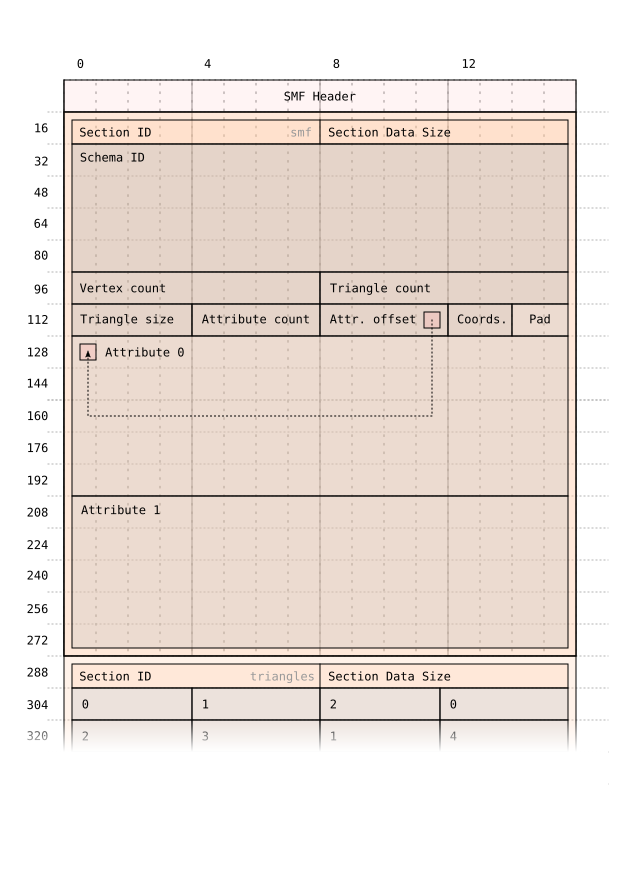
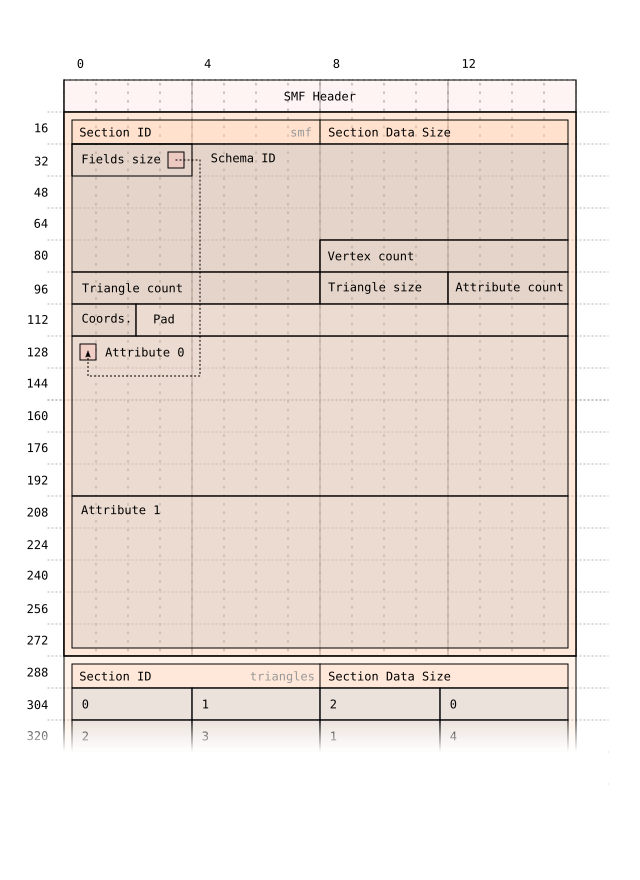
Use an explicit header size rather than an attribute offset
The total size of the header fields (minus the attributes) are declared
up front at the start of the header. This will prevent future additions
to the header from having to introduce their own "attribute_offset"
field variations.

This also rearranges the padding so that all header fields are
strictly aligned according to their type, and the header field total
is a multiple of 16.

Fix #49

diff --git a/com.io7m.smfj.tests/src/test/java/com/io7m/smfj/tests/format/binary/v1/SMFBv1SectionParserHeaderTest.java b/com.io7m.smfj.tests/src/test/java/com/io7m/smfj/tests/format/binary/v1/SMFBv1SectionParserHeaderTest.java
@@ -90,6 +90,36 @@ public final class SMFBv1SectionParserHeaderTest
   }
 
   @Test
+  public void testSizesAlignment()
+  {
+    Assert.assertTrue(
+      "Fields size is 4 octet aligned",
+      SMFBv1_0HeaderByteBuffered.metaFieldsSizeStaticOffsetFromType() % 4 == 0);
+    Assert.assertTrue(
+      "Schema is 4 octet aligned",
+      SMFBv1_0HeaderByteBuffered.metaSchemaStaticOffsetFromType() % 4 == 0);
+    Assert.assertTrue(
+      "Vertex count is 8 octet aligned",
+      SMFBv1_0HeaderByteBuffered.metaVertexCountStaticOffsetFromType() % 8 == 0);
+    Assert.assertTrue(
+      "Triangle count is 8 octet aligned",
+      SMFBv1_0HeaderByteBuffered.metaTriangleCountStaticOffsetFromType() % 8 == 0);
+    Assert.assertTrue(
+      "Triangle size is 4 octet aligned",
+      SMFBv1_0HeaderByteBuffered.metaTriangleIndexSizeBitsStaticOffsetFromType() % 4 == 0);
+    Assert.assertTrue(
+      "Attribute count is 4 octet aligned",
+      SMFBv1_0HeaderByteBuffered.metaAttributeCountStaticOffsetFromType() % 4 == 0);
+    Assert.assertTrue(
+      "Attribute count is 2 octet aligned",
+      SMFBv1_0HeaderByteBuffered.metaCoordinateSystemStaticOffsetFromType() % 2 == 0);
+
+    Assert.assertTrue(
+      "Size of header is divisible by 16",
+      SMFBv1_0HeaderByteBuffered.sizeInOctets() % 16 == 0);
+  }
+
+  @Test
   public void testV1_0(
     final @Mocked SMFParserEventsBodyType events_body)
     throws Exception
@@ -143,7 +173,7 @@ public final class SMFBv1SectionParserHeaderTest
     header_view.setTriangleIndexSizeBits(32);
     header_view.setTriangleCount(17L);
     header_view.setAttributeCount(1);
-    header_view.setAttributeOffset(8);
+    header_view.setFieldsSize(header_size);
 
     final SMFBv1SchemaIDWritableType schema = header_view.getSchemaWritable();
     schema.setSchemaVersionMajor(schema_id.versionMajor());

diff --git a/com.io7m.smfj.format.binary/src/main/java/com/io7m/smfj/format/binary/v1/SMFBv1Headers.java b/com.io7m.smfj.format.binary/src/main/java/com/io7m/smfj/format/binary/v1/SMFBv1Headers.java
@@ -214,16 +214,8 @@ public final class SMFBv1Headers
     {
       final long position_now =
         reader.position();
-      final long position_attribute_offset_start =
-        Math.addExact(
-          position_start,
-          (long) view.metaAttributeOffsetOffsetFromCursor());
-      final long position_attribute_offset_value =
-        (long) view.getAttributeOffset();
       final long attribute_offset =
-        Math.addExact(
-          position_attribute_offset_start,
-          position_attribute_offset_value);
+        Math.addExact(position_start, (long) view.getFieldsSize());
       final long seek =
         Math.subtractExact(attribute_offset, position_now);
 

diff --git a/com.io7m.smfj.format.binary/src/main/java/com/io7m/smfj/format/binary/v1/SMFBv1Serializer.java b/com.io7m.smfj.format.binary/src/main/java/com/io7m/smfj/format/binary/v1/SMFBv1Serializer.java
@@ -138,7 +138,7 @@ public final class SMFBv1Serializer implements SMFSerializerType
 
         final SMFTriangles triangles = in_header.triangles();
         view.setAttributeCount(in_header.attributesInOrder().size());
-        view.setAttributeOffset(8);
+        view.setFieldsSize(buffer.length);
         view.setTriangleCount(triangles.triangleCount());
         view.setTriangleIndexSizeBits(triangles.triangleIndexSizeBits());
         view.setVertexCount(in_header.vertexCount());
